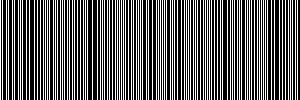
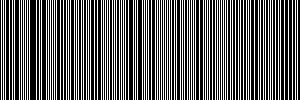
kleine fout verbeterd die te maken had met de breedte van de image

diff --git a/Logic/ParkingTicketLogic.cs b/Logic/ParkingTicketLogic.cs
@@ -58,14 +58,14 @@ public static class ParkingTicketLogic
         string beginTimeString = beginTime.ToString("HH:mm");
         GenerateBarCode();
         // Create new skiasharp surface for the ticket
-        SKSurface surface = SKSurface.Create(new SKImageInfo(300, 400));
+        SKSurface surface = SKSurface.Create(new SKImageInfo(400, 400));
         // Create new canvas to draw on
         SKCanvas canvas = surface.Canvas;
         // Create new paint to draw with
         SKPaint paint = new SKPaint();
         // Draw the background
         paint.Color = SKColors.White;
-        canvas.DrawRect(0, 0, 300, 400, paint);
+        canvas.DrawRect(0, 0, 400, 400, paint);
         // Draw the title
         paint.Color = SKColors.Black;
         paint.TextSize = 30;
